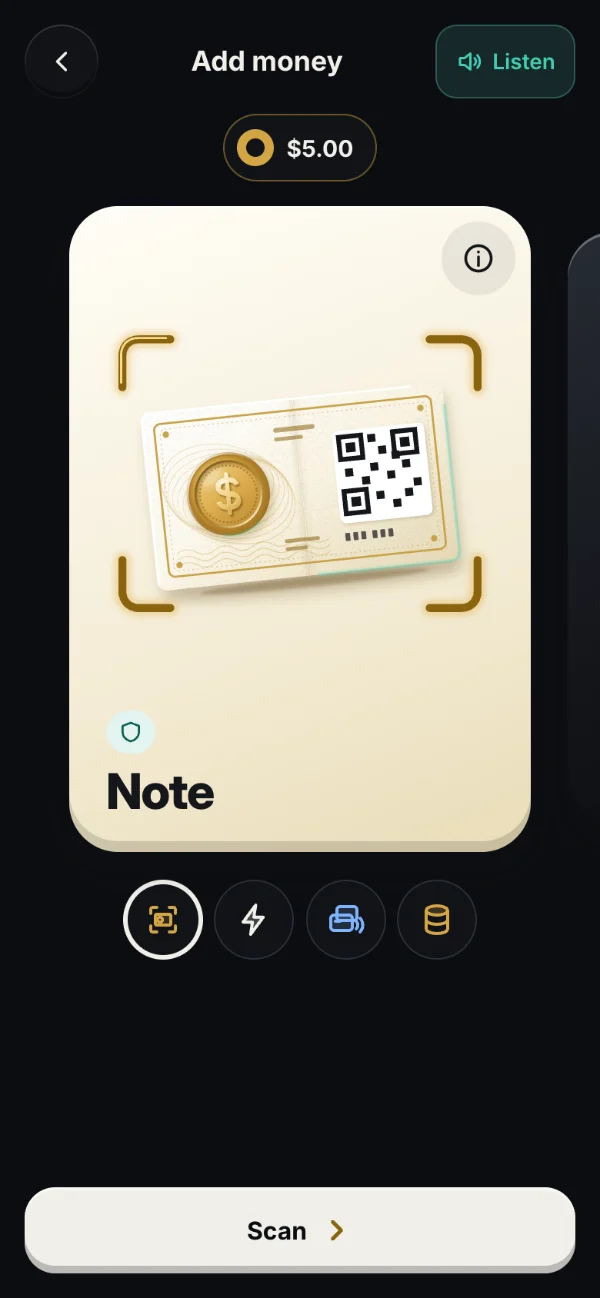
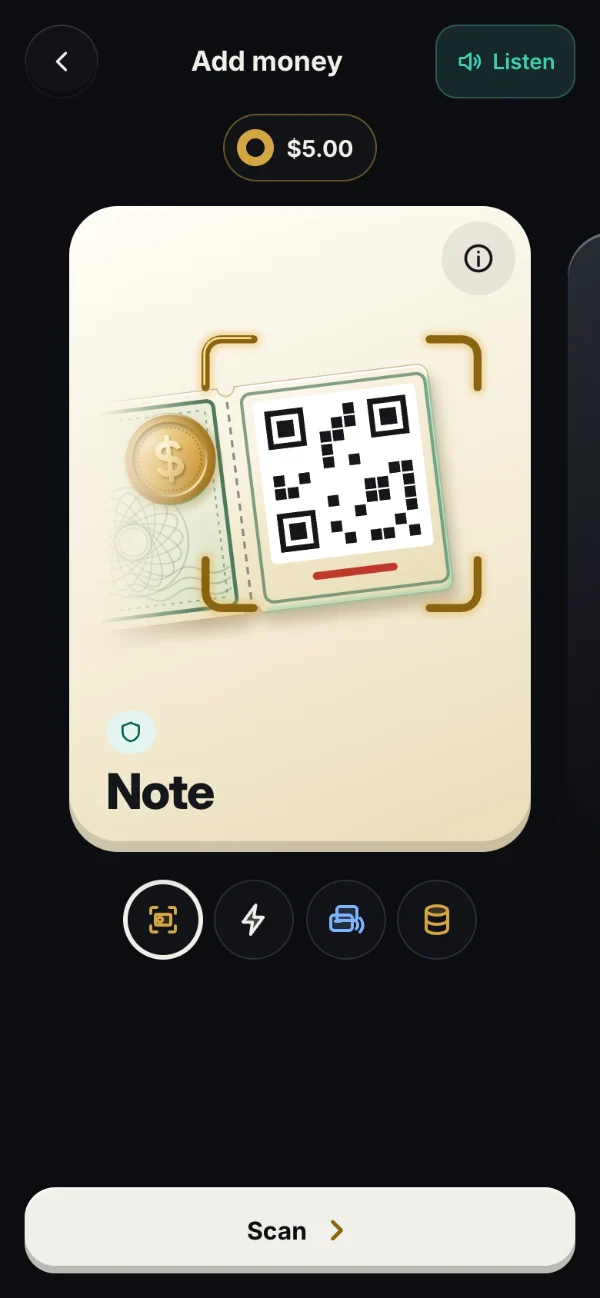
Add money: the Note card shows a real paper note, close up on the code to scan (#74)
* App: the Note card draws a note as the notes are printed

The Note card's picture was a square paper note with a gold coin and one
code. Printed notes are a wide strip: a code at each end, the value
between them, and a torn line before the right-hand code, the one that
holds the money. The picture now shows that strip, tilted, with a big
numeral, a small details block, a gold seal and an engraved rosette in
the middle panel, and the camera frame's corners on the right-hand code
(a red line under it, a grey one under the public code).

The codes are drawn on an 11 by 11 grid from a fixed seed with the
three finder squares; no QR code is that size, so neither can be read.
Layout, sizes, label and the tab icon are unchanged.

Claude-Session: https://claude.ai/code/session_01Gn2VCbdztFekyG4b4LRiEB

* App: the Note card shows the note close, its money code in the frame

The owner chose a closer picture after seeing the first pass. The
picture is now the right half of the note: the code that holds the
money large in the camera frame (back to the size of the old picture's
frame), the torn line and its bites beside it, and the banknote panel
with its seal and rosette running off to the left, where it fades out
with a mask so the cut reads as deliberate. The left-hand code is out
of the picture and no longer drawn, and the paper grain is gone (it
would scale coarse at this zoom).

The Note screen's hero is wider than a card, so it opens the picture
[…]

Changed region(s): [[0.18, 0.2465, 0.78, 0.4931]]

diff --git a/public/v2/screens/wallet-art.js b/public/v2/screens/wallet-art.js
@@ -1,8 +1,9 @@
 // The pictures on the wallet cards (AddFunds-C1 to C4 in docs/design/canvas), drawn to the first run's
 // standard (screens/firstrun-art.js, C-Welcome to C-Private): one light for every picture, a key light from
 // the top left and a soft teal rim light from the bottom right, layered gradients for volume, specular
-// highlights and soft contact shadows, and real materials: a gift box for Start free, a printed paper note,
-// a lit Lightning bolt, the Cashu card and the Fedimint card each at a phone (their printed faces, from
+// highlights and soft contact shadows, and real materials: a gift box for Start free, a printed paper note
+// seen close (the code that holds the money in the camera's frame, the banknote running off to the left), a
+// lit Lightning bolt, the Cashu card and the Fedimint card each at a phone (their printed faces, from
 // screens/brands/cards.js), the C-Pay coin for eCash, and for the More ways a coin swap, a bitcoin coin and
 // a free-question voucher.
 //
@@ -293,62 +294,123 @@ ${contact(p, 128, 176, 74, 6, 0.4, '#00302A')}
 <ellipse cx="126.5" cy="79.8" rx="3.6" ry="2" fill="#FFFFFF" opacity="0.8" ${f(p, 'b06')}/>
 ${sparkle(p, 210, 38, 9)}${sparkle(p, 40, 58, 6)}${sparkle(p, 214, 150, 5, '#D9FFF6')}${sparkle(p, 52, 150, 3.5, '#D9FFF6')}`;
 
-/** Scan a note: a printed paper note (Forge's eCash on paper), in the camera's frame. */
-const NOTE = (p) => {
+/**
+ * A drawn code: three finder squares and a scatter of modules on an 11 by 11 grid, from a fixed seed.
+ * No QR code has 11 modules a side (the smallest has 21), so nothing can read it as one. (x, y) the top
+ * left, s the side.
+ */
+function dummyCode(x, y, s, seed) {
+  const c = s / 11;
+  const sq = (cx, cy, w) => `M${r1(x + cx)} ${r1(y + cy)}h${r1(w)}v${r1(w)}h${r1(-w)}z`;
+  let ink = '';
+  let hole = '';
+  let eye = '';
+  for (const [i, j] of [
+    [0, 0],
+    [8, 0],
+    [0, 8],
+  ]) {
+    // The finder's 7:5:3 squares, over three cells.
+    ink += sq(i * c, j * c, 3 * c);
+    hole += sq(i * c + (3 / 7) * c, j * c + (3 / 7) * c, (15 / 7) * c);
+    eye += sq(i * c + (6 / 7) * c, j * c + (6 / 7) * c, (9 / 7) * c);
+  }
+  let r = seed;
+  for (let j = 0; j < 11; j++)
+    for (let i = 0; i < 11; i++) {
+      if ((i < 4 && j < 4) || (i > 6 && j < 4) || (i < 4 && j > 6)) continue;
+      r = (r * 1103515245 + 12345) & 0x7fffffff;
+      if ((r >> 16) % 5 < 2) ink += sq(i * c + 0.25, j * c + 0.25, c - 0.5);
+    }
+  return `<path d="${ink}" fill="#14161A"/><path d="${hole}" fill="#FFFFFF"/><path d="${eye}" fill="#14161A"/>`;
+}
+
+// The note, drawn flat at 220 by 64: the banknote panel, the torn line at T and the right-hand code (the
+// left-hand code is out of the picture, so it is not drawn).
+const NW = 220;
+const NH = 64;
+const T = 163;
+// The right-hand code's centre on the note, and where the picture puts it: in the middle of the camera's
+// frame (FX, FY), drawn NK times larger and tilted NA degrees, so the note runs off the left edge.
+const CODE = [193, 28];
+const [FX, FY, NK, NA] = [152, 100, 2.22, -7];
+
+/**
+ * Scan a note: a printed paper note (Forge's eCash on paper), as the notes are printed (a code at each
+ * end, the value between them, a torn line before the right-hand code, the one that holds the money),
+ * seen close: that code large in the camera's frame, the torn line beside it, and the banknote panel
+ * fading out at the picture's left edge, x0 (further left on the wider hero).
+ */
+const NOTE = (p, x0 = 0) => {
   const guil = [];
-  for (let i = 0; i < 6; i++) guil.push(`<ellipse cx="80" cy="108" rx="${30 + i * 2.6}" ry="${20 + i * 1.9}" transform="rotate(${-20 + i * 9} 80 108)"/>`);
+  // The engraved rosette: one ellipse turned eight times, in two rings.
+  for (let i = 0; i < 8; i++) guil.push(`<ellipse cx="132" cy="40" rx="14" ry="5" transform="rotate(${i * 22.5} 132 40)"/>`);
+  guil.push('<circle cx="132" cy="40" r="15.5"/><circle cx="132" cy="40" r="4"/>');
   const wave = [];
-  for (let i = 0; i < 3; i++) wave.push(`M44 ${142 + i * 4}q6 -4 12 0t12 0t12 0t12 0t12 0t12 0t12 0t12 0`);
-  const qr = 'M156 84h6v6h-6zM190 84h6v6h-6zM156 118h6v6h-6zM170 80h5v5h-5zM176 88h5v5h-5zM170 98h5v5h-5zM180 104h5v5h-5zM190 98h5v5h-5zM196 110h5v5h-5zM172 116h5v5h-5zM182 122h5v5h-5zM190 116h5v5h-5zM154 100h5v5h-5zM164 106h5v5h-5zM184 92h5v5h-5z';
+  for (let i = 0; i < 3; i++) wave.push(`M62 ${50 + i * 3}q4 -2.6 8 0t8 0t8 0t8 0t8 0t8 0t8 0t8 0t8 0t8 0t8 0t8 0`);
+  // The paper, with a half-round bite at each end of the torn line.
+  const paper = `M3 0H${T - 2.4}a2.4 2.4 0 0 0 4.8 0H${NW - 3}a3 3 0 0 1 3 3V${NH - 3}a3 3 0 0 1-3 3H${T + 2.4}a2.4 2.4 0 0 0-4.8 0H3a3 3 0 0 1-3-3V3a3 3 0 0 1 3-3Z`;
+  // The camera's frame, upright, as the other pictures draw it: its sides (left, right, top, bottom) and
+  // the corners' arms, 30 long.
+  const [L, R, U, D] = [FX - 86, FX + 84, FY - 84, FY + 84];
+  const k = 30;
+  const frame = `M${L} ${U + k}V${U + 10}a10 10 0 0 1 10-10H${L + k}M${R - k} ${U}H${R - 10}a10 10 0 0 1 10 10V${U + k}M${R} ${D - k}V${D - 10}a10 10 0 0 1-10 10H${R - k}M${L + k} ${D}H${L + 10}a10 10 0 0 1-10-10V${D - k}`;
+  // A stub: the code on white in its thin frame, a short line of print under it (red under the money's).
+  const stub = (x, seed, line) => `<rect x="${x - 3}" y="2.5" width="52" height="59" rx="2.5" fill="none" stroke="#4E7A5E" stroke-opacity="0.7" stroke-width="0.9"/>
+<rect x="${x}" y="5" width="46" height="46" rx="1.5" fill="#FFFFFF"/>
+${dummyCode(x + 3, 8, 40, seed)}
+<rect x="${x + 11}" y="54.6" width="24" height="2.2" rx="1.1" fill="${line}"/>`;
   return `<defs>${filters(p)}
 ${lg(`${p}pp`, [0, 0, 1, 1], [
-  [0, '#FFFFFF'],
-  [0.5, '#FBF5E4'],
-  [1, '#E6D9B6'],
+  [0, '#FFFEF8'],
+  [0.5, '#F8F1DC'],
+  [1, '#E9DCB6'],
 ])}
-${lg(`${p}fold`, [0, 0, 1, 0], [
-  [0, '#8A6410', 0],
-  [0.42, '#8A6410', 0.1],
-  [0.5, '#FFFFFF', 0.55],
-  [0.58, '#8A6410', 0.06],
-  [1, '#8A6410', 0],
+${lg(`${p}panel`, [0, 0, 1, 1], [
+  [0, '#F3F2DE'],
+  [1, '#DCE3C6'],
 ])}
 ${dollarDefs(p)}
 ${lg(`${p}sheen`, [0, 0, 1, 1], [
   [0, '#FFFFFF', 0],
-  [0.45, '#FFFFFF', 0.5],
+  [0.45, '#FFFFFF', 0.55],
   [0.6, '#FFFFFF', 0],
 ])}
-<clipPath id="${p}paper"><rect x="30" y="52" width="190" height="112" rx="6"/></clipPath>
+${lg(`${p}fade`, [x0, 0, x0 + 64, 0], [
+  [0, '#000000'],
+  [1, '#FFFFFF'],
+], true)}
+<mask id="${p}edge" maskUnits="userSpaceOnUse" x="${x0 - 20}" y="-20" width="${290 - x0}" height="240"><rect x="${x0 - 20}" y="-20" width="${290 - x0}" height="240" fill="url(#${p}fade)"/></mask>
+<clipPath id="${p}paper"><path d="${paper}"/></clipPath>
 </defs>
-<g transform="rotate(-6 125 108)">
-${contact(p, 128, 168, 92, 5, 0.3, '#5A3C08')}
-<rect x="32" y="58" width="190" height="112" rx="6" fill="#5A3C08" opacity="0.22" ${f(p, 'b4')}/>
-<rect x="30" y="52" width="190" height="112" rx="6" fill="url(#${p}pp)"/>
+<g mask="url(#${p}edge)">
+<g transform="translate(${FX} ${FY}) rotate(${NA}) scale(${NK}) translate(${-CODE[0]} ${-CODE[1]})">
+<path d="${paper}" fill="#5A3C08" opacity="0.3" transform="translate(1.5 3.5)" ${f(p, 'b2')}/>
+<path d="${paper}" fill="url(#${p}pp)" stroke="#BFAE80" stroke-opacity="0.8" stroke-width="0.4"/>
 <g clip-path="url(#${p}paper)">
-<g opacity="0.1" ${f(p, 'grain')}><rect x="30" y="52" width="190" height="112" fill="#FFFFFF"/></g>
-<g fill="none" stroke="#C9A24A" stroke-opacity="0.32" stroke-width="0.6">${guil.join('')}</g>
-<path d="${wave.join('')}" fill="none" stroke="#C9A24A" stroke-opacity="0.35" stroke-width="0.7"/>
-<rect x="121" y="52" width="10" height="112" fill="url(#${p}fold)"/>
-<path d="M30 52L120 52L60 164H30Z" fill="url(#${p}sheen)" opacity="0.6"/>
+<rect x="59" y="3" width="100" height="58" rx="2" fill="url(#${p}panel)"/>
+<g fill="none" stroke="#4E7A5E" stroke-opacity="0.4" stroke-width="0.5">${guil.join('')}</g>
+<path d="${wave.join('')}" fill="none" stroke="#4E7A5E" stroke-opacity="0.35" stroke-width="0.5"/>
+<path d="M150 0H200L170 ${NH}H120Z" fill="url(#${p}sheen)" opacity="0.5"/>
 </g>
-<rect x="38" y="60" width="174" height="96" rx="4" fill="none" stroke="#C9A24A" stroke-width="1.3"/>
-<rect x="41.5" y="63.5" width="167" height="89" rx="3" fill="none" stroke="#C9A24A" stroke-opacity="0.55" stroke-width="0.6" stroke-dasharray="1 2"/>
-<g fill="#C9A24A"><circle cx="45" cy="67" r="2"/><circle cx="205" cy="67" r="2"/><circle cx="45" cy="149" r="2"/><circle cx="205" cy="149" r="2"/></g>
-${dollarCoin(p, 80, 108)}
-<g fill="#8A6410" opacity="0.55"><rect x="112" y="70" width="26" height="3" rx="1.5"/><rect x="112" y="76" width="18" height="2.4" rx="1.2"/><rect x="112" y="140" width="22" height="2.4" rx="1.2"/><rect x="112" y="145" width="14" height="2.4" rx="1.2"/></g>
-<g fill="#14161A" opacity="0.7"><rect x="150" y="140" width="3" height="5" rx="0.6"/><rect x="155" y="140" width="3" height="5" rx="0.6"/><rect x="160" y="140" width="3" height="5" rx="0.6"/><rect x="167" y="140" width="3" height="5" rx="0.6"/><rect x="172" y="140" width="3" height="5" rx="0.6"/><rect x="177" y="140" width="3" height="5" rx="0.6"/></g>
-<rect x="149" y="77" width="58" height="58" rx="4" fill="#5A3C08" opacity="0.2" ${f(p, 'b1')}/>
-<rect x="148" y="76" width="58" height="58" rx="4" fill="#FFFFFF"/>
-<path d="M152 80h14v14h-14zM186 80h14v14h-14zM152 114h14v14h-14z" fill="none" stroke="#14161A" stroke-width="3"/>
-<path d="${qr}" fill="#14161A"/>
-<path d="M220 66V158Q220 164 214 164H130" fill="none" stroke="${TEAL}" stroke-opacity="0.55" stroke-width="1.3" ${f(p, 'b06')}/>
-<path d="M31 160V58Q31 53 36 53H200" fill="none" stroke="#FFFFFF" stroke-width="1.2"/>
+<rect x="59" y="3" width="100" height="58" rx="2" fill="none" stroke="#4E7A5E" stroke-width="1.1"/>
+<rect x="61.5" y="5.5" width="95" height="53" rx="1.2" fill="none" stroke="#4E7A5E" stroke-opacity="0.55" stroke-width="0.5" stroke-dasharray="1 1.4"/>
+<path d="M68 11.5H80M68 11.5L67 21Q71 19 74.5 19.6Q80.5 21 80.5 27Q80.5 33.5 74 33.5Q69.5 33.5 67.5 30.5" fill="none" stroke="#2F5A40" stroke-width="4" stroke-linecap="round" stroke-linejoin="round"/>
+<rect x="85" y="13" width="28" height="2.6" rx="1.3" fill="#2F5A40" opacity="0.7"/>
+<rect x="66" y="39" width="44" height="17" rx="1.6" fill="#FFFFFF" fill-opacity="0.45" stroke="#4E7A5E" stroke-opacity="0.6" stroke-width="0.6"/>
+<rect x="69" y="44.6" width="20" height="2.2" rx="1.1" fill="#B23A2A" opacity="0.75"/>
+<g transform="translate(145 18) scale(0.5)">${dollarCoin(p, 0, 0)}</g>
+<path d="M${T} 4V60" stroke="#6B6A60" stroke-opacity="0.75" stroke-width="0.7" stroke-dasharray="2 1.6"/>
+${stub(170, 29, '#C0392B')}
+<path d="M${NW - 0.4} 4V${NH - 3}a2.6 2.6 0 0 1-2.6 2.6H${T + 4}" fill="none" stroke="${TEAL}" stroke-opacity="0.6" stroke-width="0.7" ${f(p, 'b06')}/>
+<path d="M${T + 4} 0.4H${NW - 3}a2.6 2.6 0 0 1 2.6 2.6" fill="none" stroke="#FFFFFF" stroke-width="0.6"/>
+<path d="M0.4 ${NH - 4}V3a2.6 2.6 0 0 1 2.6-2.6H${T - 4}" fill="none" stroke="#FFFFFF" stroke-width="0.6"/>
+</g>
 </g>
 <g fill="none" stroke-linecap="round">
-<path d="M14 46V26a10 10 0 0 1 10-10h20M206 16h20a10 10 0 0 1 10 10v20M236 154v20a10 10 0 0 1-10 10h-20M44 184H24a10 10 0 0 1-10-10v-20" stroke="#E2B552" stroke-opacity="0.45" stroke-width="10" ${f(p, 'b2')}/>
-<path d="M14 46V26a10 10 0 0 1 10-10h20M206 16h20a10 10 0 0 1 10 10v20M236 154v20a10 10 0 0 1-10 10h-20M44 184H24a10 10 0 0 1-10-10v-20" stroke="#8A6410" stroke-width="5"/>
-<path d="M14 44V26a10 10 0 0 1 10-10h18" stroke="#F6D98E" stroke-width="1.4" transform="translate(-0.8 -0.8)"/>
+<path d="${frame}" stroke="#E2B552" stroke-opacity="0.45" stroke-width="10" ${f(p, 'b2')}/>
+<path d="${frame}" stroke="#8A6410" stroke-width="5"/>
+<path d="M${L - 0.8} ${U + k - 2}V${U + 9.2}a10 10 0 0 1 10-10H${L + k - 2}" stroke="#F6D98E" stroke-width="1.4"/>
 </g>`;
 };
 
@@ -542,7 +604,10 @@ export function cardArt(id, mod, label) {
  * card's own ground, as on Add money, so a person knows where they are without reading. Only a picture.
  */
 export function wayHero(id, mod) {
-  return el('div', { class: 'way-hero', 'data-way': id, 'aria-hidden': 'true' }, cardArt(id, mod, null));
+  // The hero is wider than a card: the note's picture opens 60 further left, so the note runs on and
+  // fades near the hero's own left edge instead of in its middle.
+  const art = id === 'note' ? svg(NOTE(prefix(), -60), { w: 370, h: 200, box: '-60 0 370 200', cls: 'way-art-svg' }) : cardArt(id, mod, null);
+  return el('div', { class: 'way-hero', 'data-way': id, 'aria-hidden': 'true' }, art);
 }
 
 /** The small picture on a More tile. */

diff --git a/docs/design/SCREENS.md b/docs/design/SCREENS.md
@@ -316,7 +316,7 @@ Chosen by the owner on 2026-11-15 ("the less words and more icons the better"; t
 Top to bottom, with nothing that scrolls at 360 x 640 or 412 x 915:
 1. Header: 48 px back, title "Add money", and Listen (teal chip) on the right. Listen reads the card on show: its word and its info line, with the phone's own voice.
 2. The balance chip: a small gold ring (empty at $0) and the amount.
-3. The cards, one per way, 300 x 420 at most (the card takes the height left), with the neighbours peeking at the sides, smaller. Each card is one picture, a privacy badge (an icon: a shield for "Cannot be linked to you", an eye for "Others can see this payment", a phone for "Android app"), and one word. A 48 px info button at the top right shows the way's one honest line under the word. Pictures are drawn to the first run's standard (`screens/wallet-art.js`): a gift box (Start free), a printed paper note in the camera frame (Note), the Lightning bolt as a lit gold object (Lightning), a Cashu card at a phone (Card), the C-Pay coin stack (eCash). Card colours: teal, cream, near black, gold, light gold, white (More).
+3. The cards, one per way, 300 x 420 at most (the card takes the height left), with the neighbours peeking at the sides, smaller. Each card is one picture, a privacy badge (an icon: a shield for "Cannot be linked to you", an eye for "Others can see this payment", a phone for "Android app"), and one word. A 48 px info button at the top right shows the way's one honest line under the word. Pictures are drawn to the first run's standard (`screens/wallet-art.js`): a gift box (Start free), a printed paper note seen close, the code that holds the money large in the camera frame with the torn line beside it and the banknote panel running off to the left (Note), the Lightning bolt as a lit gold object (Lightning), a Cashu card at a phone (Card), the C-Pay coin stack (eCash). Card colours: teal, cream, near black, gold, light gold, white (More).
 4. Icon tabs, 52 px (48 at least), one per card, the one on show ringed in ink (3 px). Arrow keys move between them.
 5. A hand that moves side to side: swipe for the other cards (still with reduced motion).
 6. The one big button, 64 px, dark, with the card's word for what it does: Start, Scan, Pay, Tap, Paste. Tapping the picture does the same.
